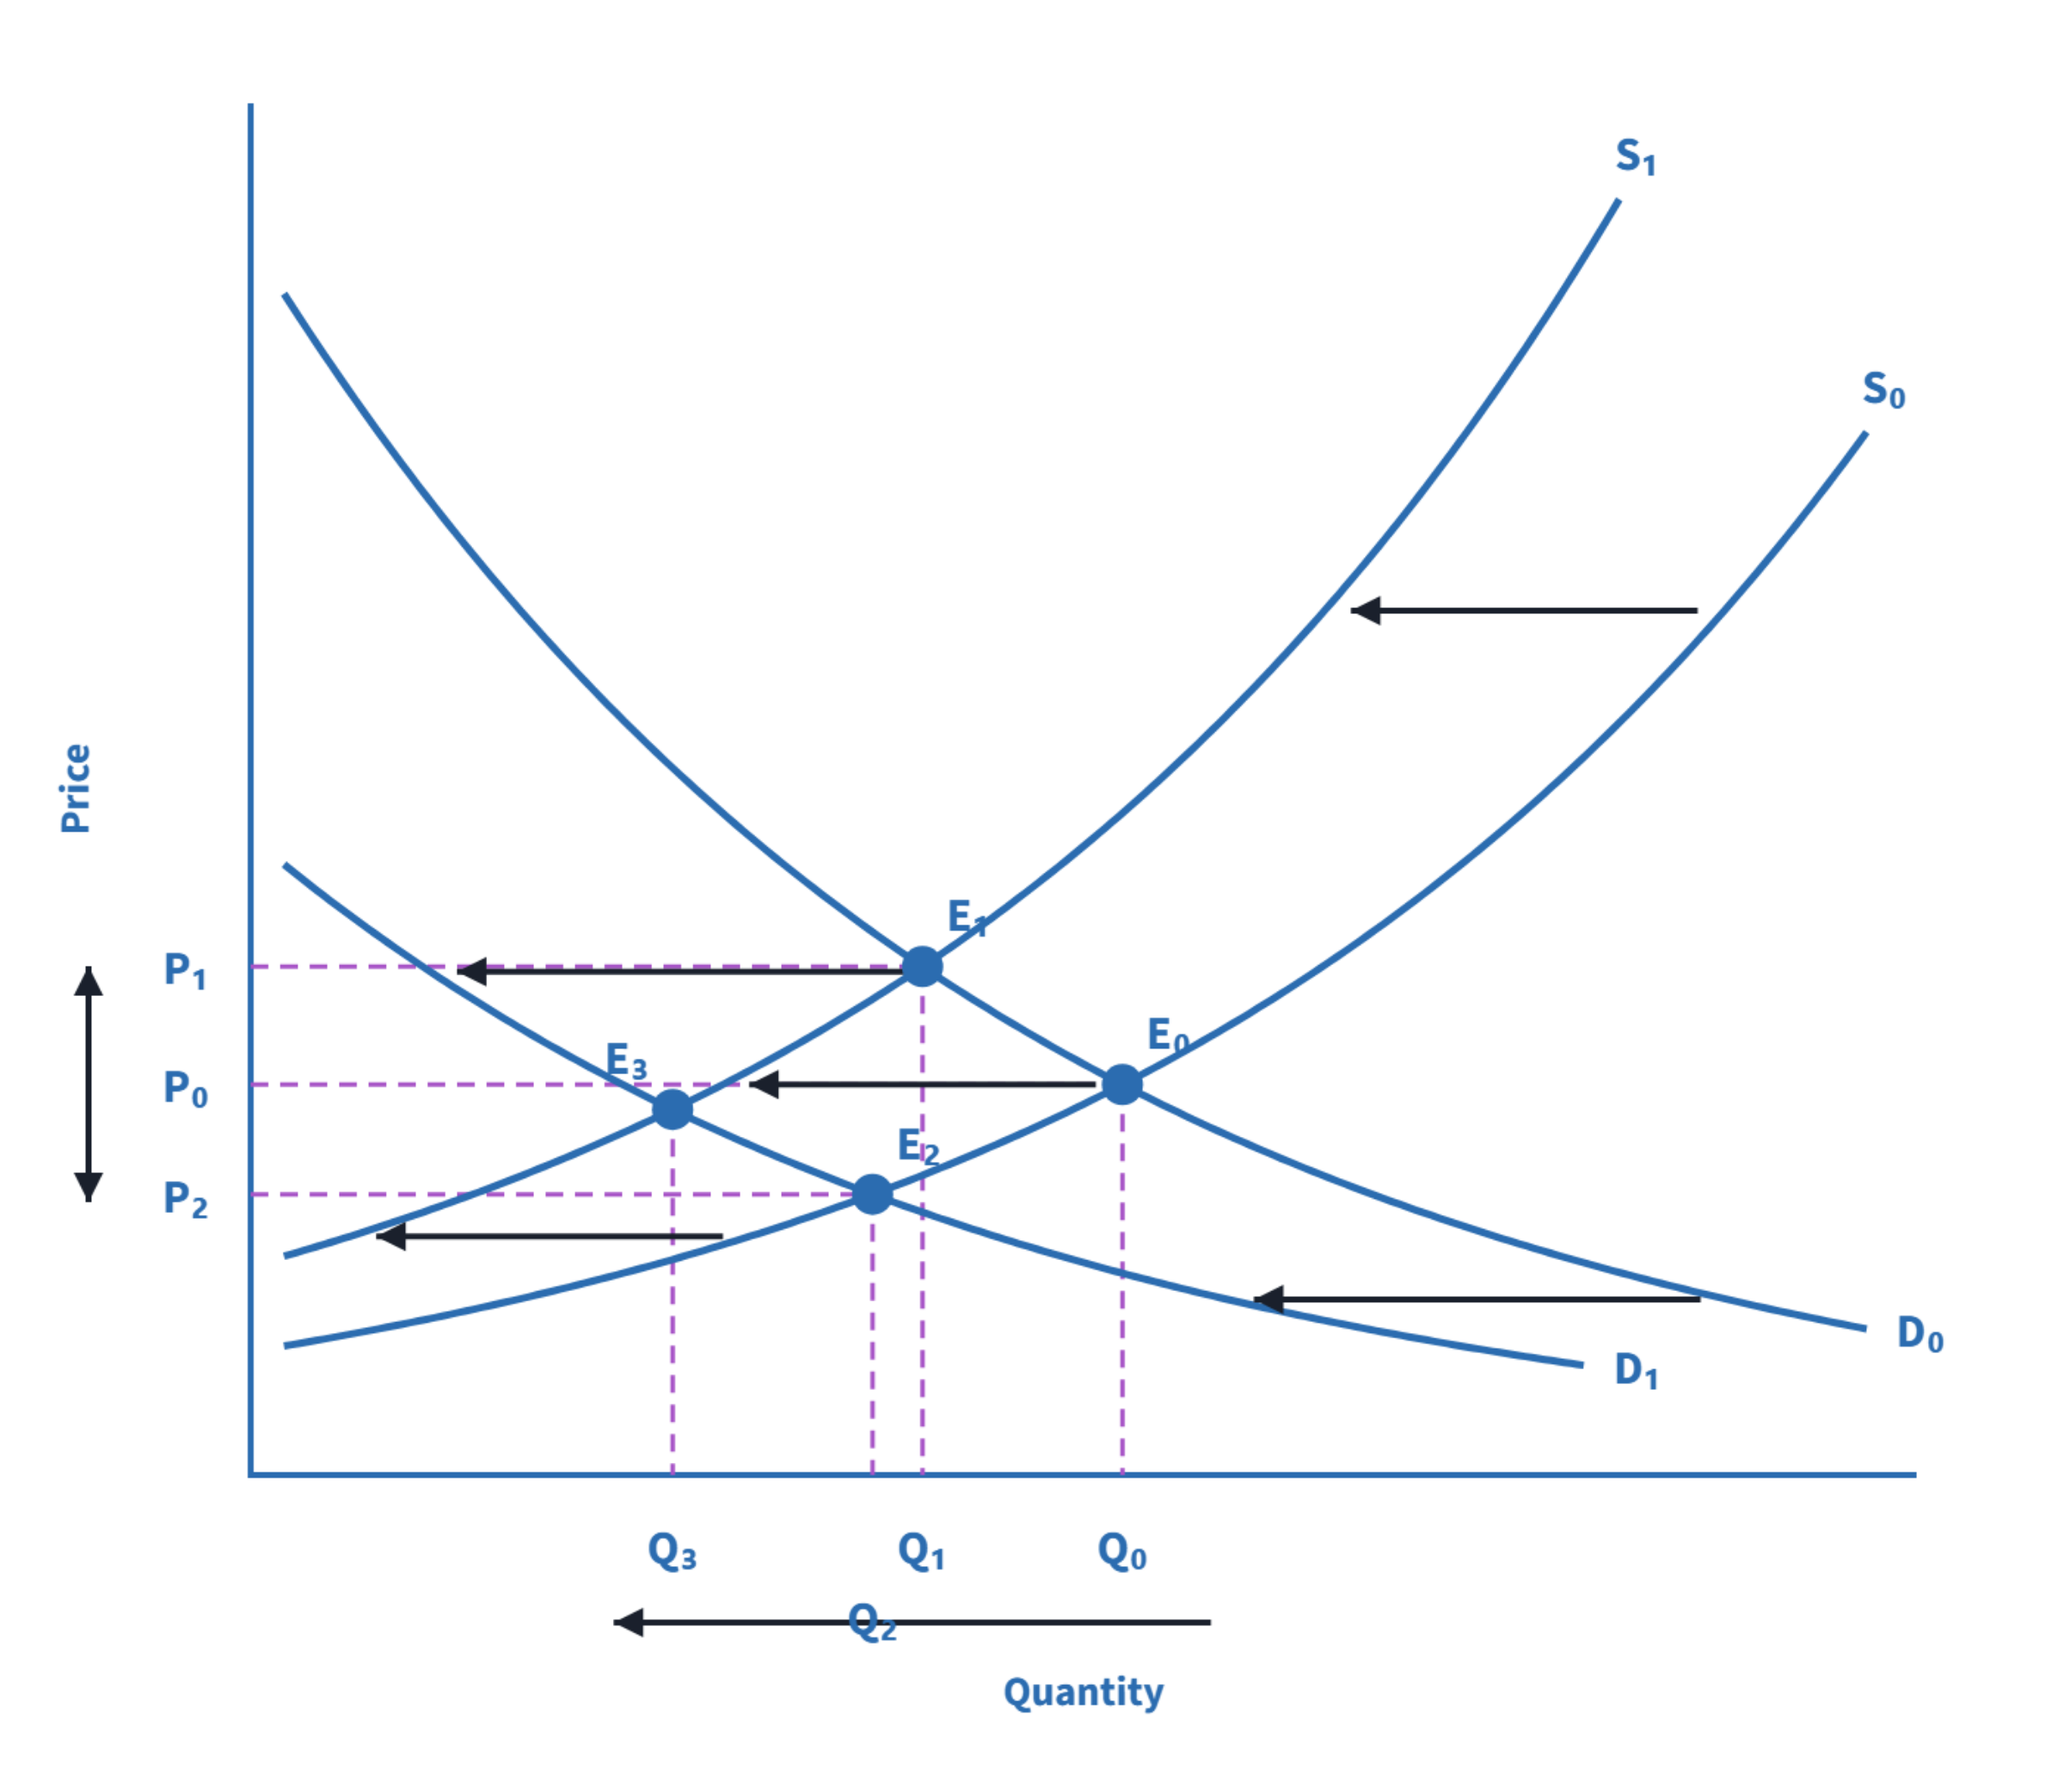
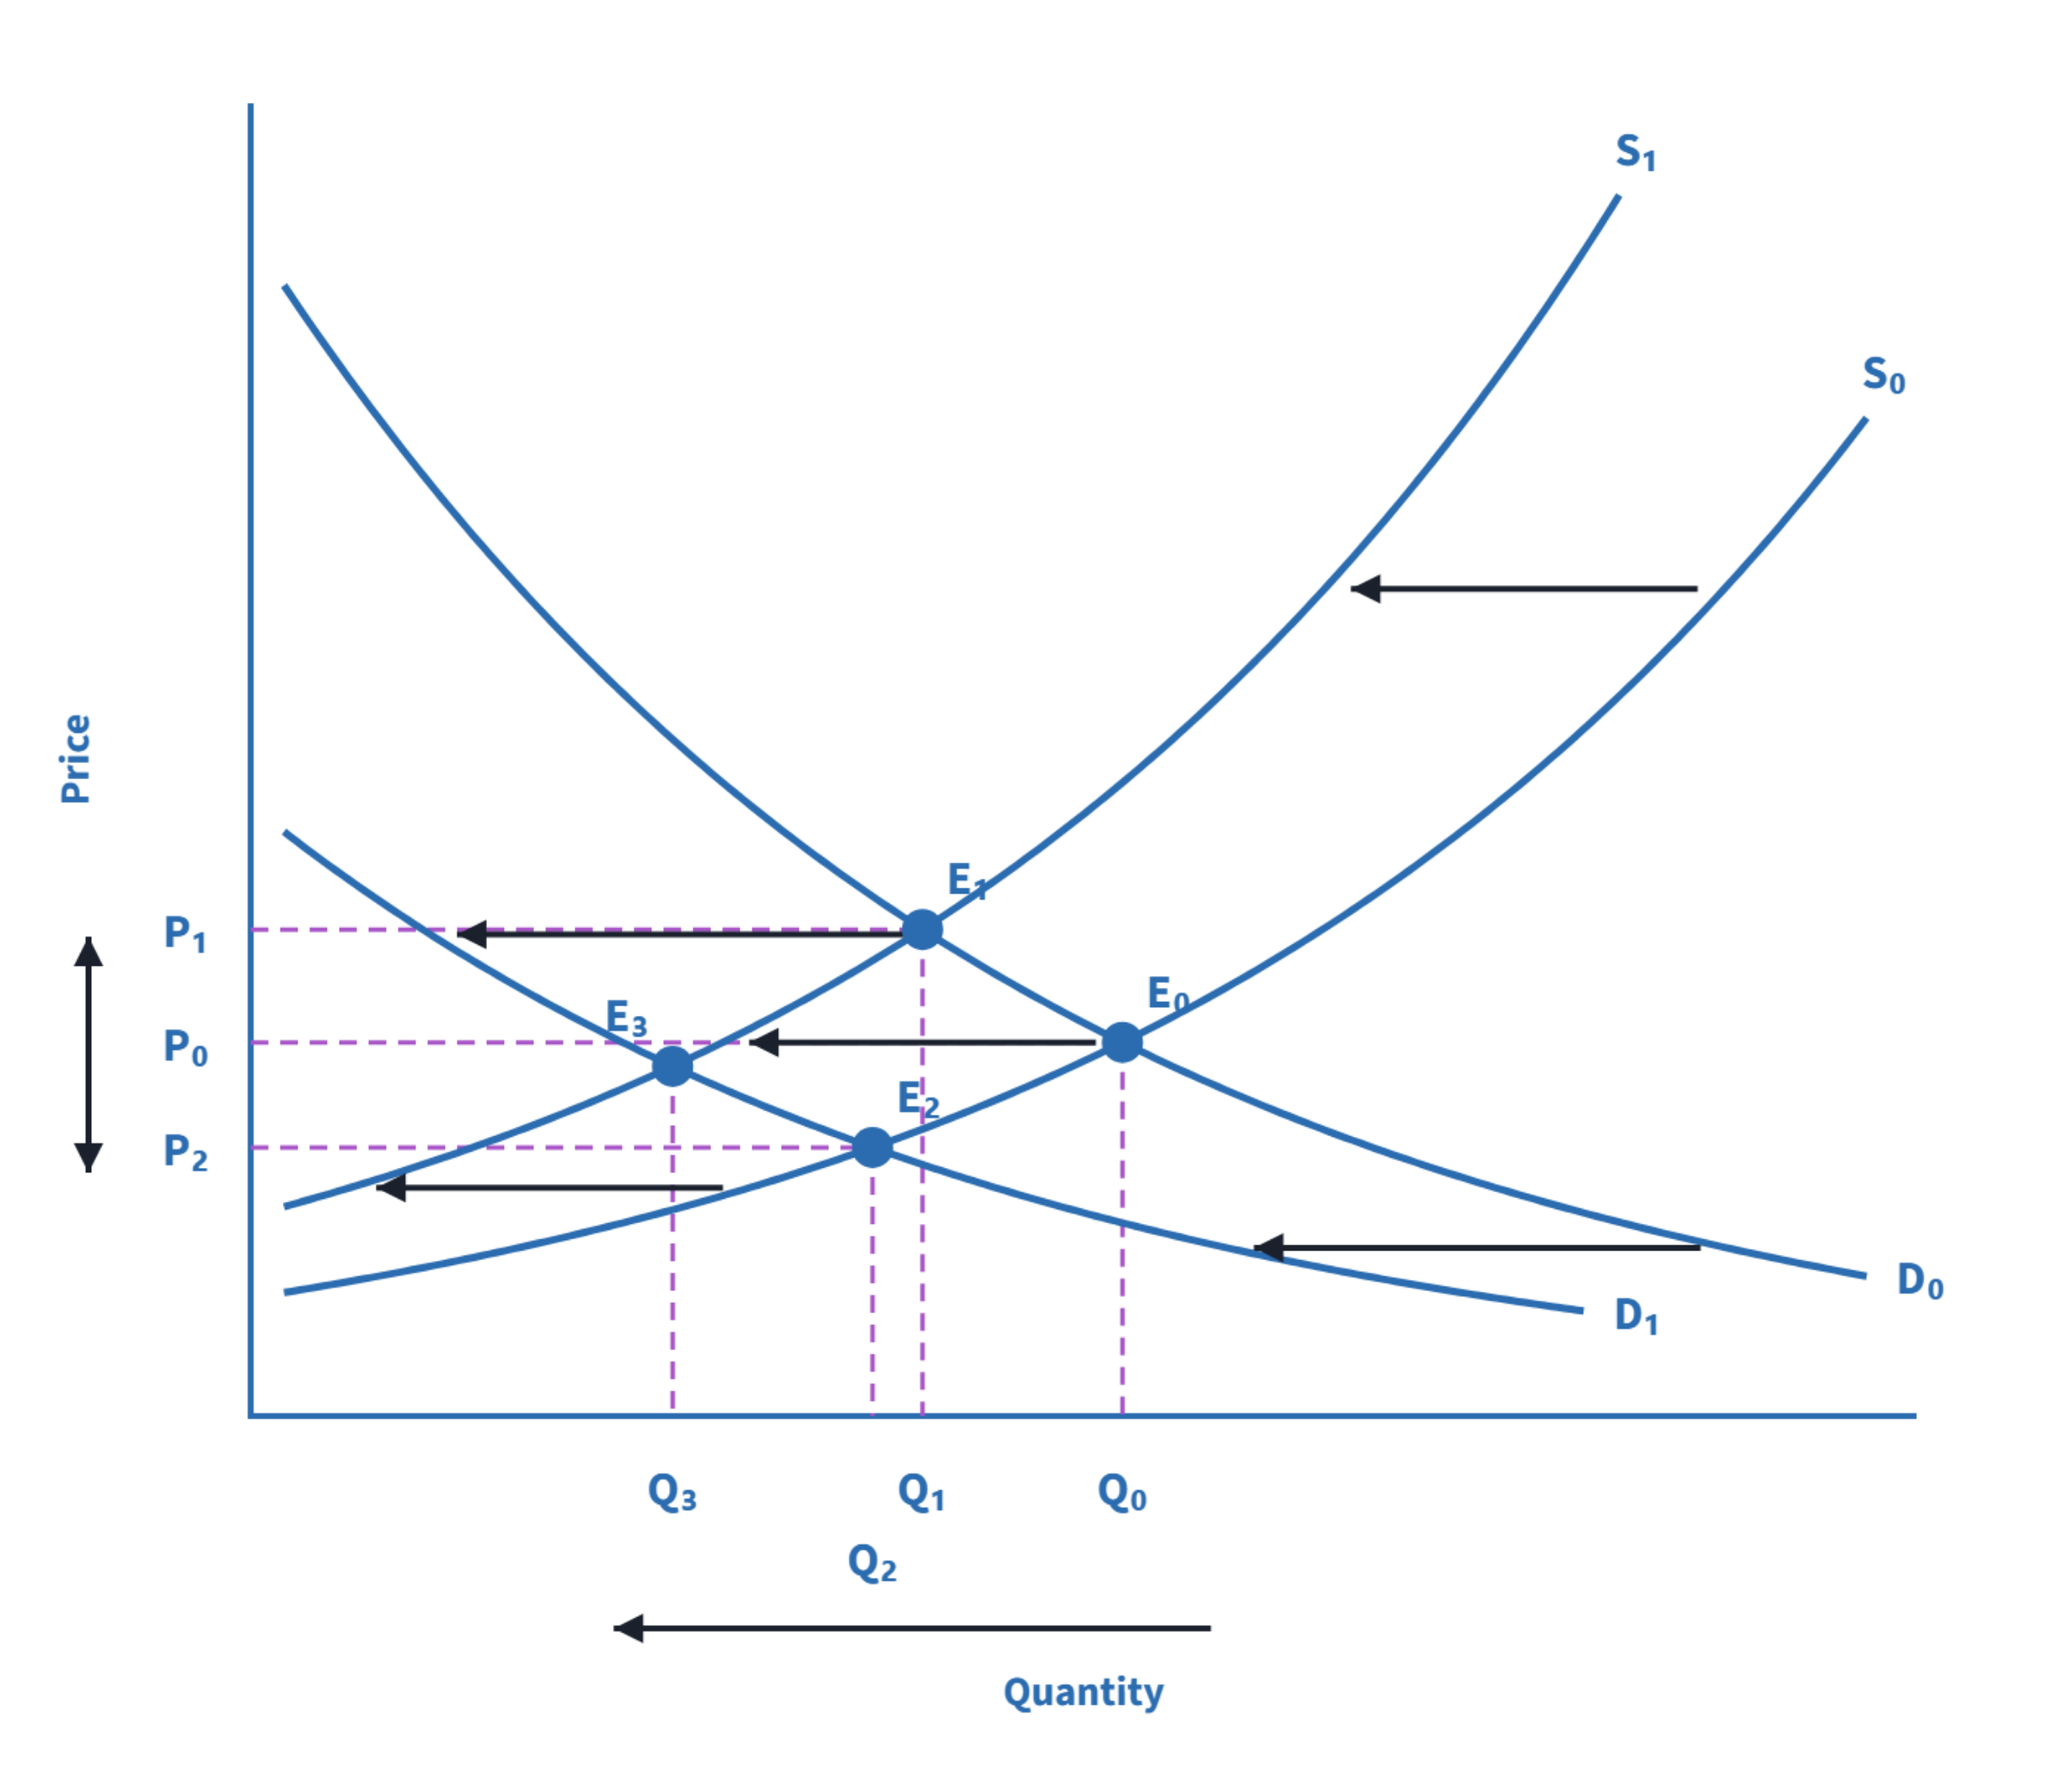
Rebuild book output

diff --git a/HTML_open_principles_of_microeconomics/apps/four_step_postal_combined_textbook.html b/HTML_open_principles_of_microeconomics/apps/four_step_postal_combined_textbook.html
@@ -90,7 +90,7 @@ new EconViz({
   canvas: 'graph',
   stateVersion: 1,
   downloadName: 'four_step_postal_combined.png',
-  axes: { xMin:0, xMax:10, yMin:0, yMax:10, margin:{top:70, right:100, bottom:200, left:170} },
+  axes: { xMin:0, xMax:10, yMin:0, yMax:10, margin:{top:70, right:100, bottom:240, left:170} },
   sliders: [
     { id:'dq_s1', label:'Shift of supply', min:-4, max:4, value:-2.4, step:0.1, fmt:v => (v > 0 ? '+' : '') + v.toFixed(1) },
     { id:'dq_d1', label:'Shift of demand', min:-4, max:4, value:-3.0, step:0.1, fmt:v => (v > 0 ? '+' : '') + v.toFixed(1) },
@@ -133,7 +133,7 @@ new EconViz({
     // ---- Plot ----
     g.clear();
     g.axes(BLUE);
-    g.label('Quantity', x0 + (xMax > 0 ? (tCX(xMax) - x0) / 2 : 0), axisY + 78 * S, { key:'x', font:`bold ${14 * S}px ${g.font}`, color:BLUE, align:'center' });
+    g.label('Quantity', x0 + (xMax > 0 ? (tCX(xMax) - x0) / 2 : 0), axisY + 98 * S, { key:'x', font:`bold ${14 * S}px ${g.font}`, color:BLUE, align:'center' });
     const ylx = g.left + 30 * S, mid = y0 + height / 2, ny = g.getNudge('y');
     ctx.save(); ctx.translate(ylx + ny.dx, mid + ny.dy); ctx.rotate(-Math.PI / 2);
     ctx.font = `bold ${14 * S}px ${g.font}`; ctx.fillStyle = BLUE; ctx.textAlign = 'center'; ctx.fillText('Price', 0, 0); ctx.restore();
@@ -189,7 +189,7 @@ new EconViz({
       const opposed = Math.sign(e1.p - e0.p) * Math.sign(e2.p - e0.p) < 0;
       if (opposed) { g.drawArrow(ylx, mid + 100 * S, ylx, top, INK); g.drawArrow(ylx, mid + 100 * S, ylx, bot, INK); }
       else if (Math.abs(e3.p - e0.p) > 0.05) g.drawArrow(ylx, e3.p < e0.p ? top : bot, ylx, e3.p < e0.p ? bot : top, INK);
-      const qy = axisY + 50 * S, xa = tCX(Math.max(e0.q, e3.q)), xb = tCX(Math.min(e0.q, e3.q));
+      const qy = axisY + 72 * S, xa = tCX(Math.max(e0.q, e3.q)), xb = tCX(Math.min(e0.q, e3.q));
       if (Math.abs(e3.q - e0.q) > 0.05) g.drawArrow(e3.q < e0.q ? xa + 30 * S : xb - 30 * S, qy, e3.q < e0.q ? xb - 20 * S : xa + 20 * S, qy, INK);
     }
 
